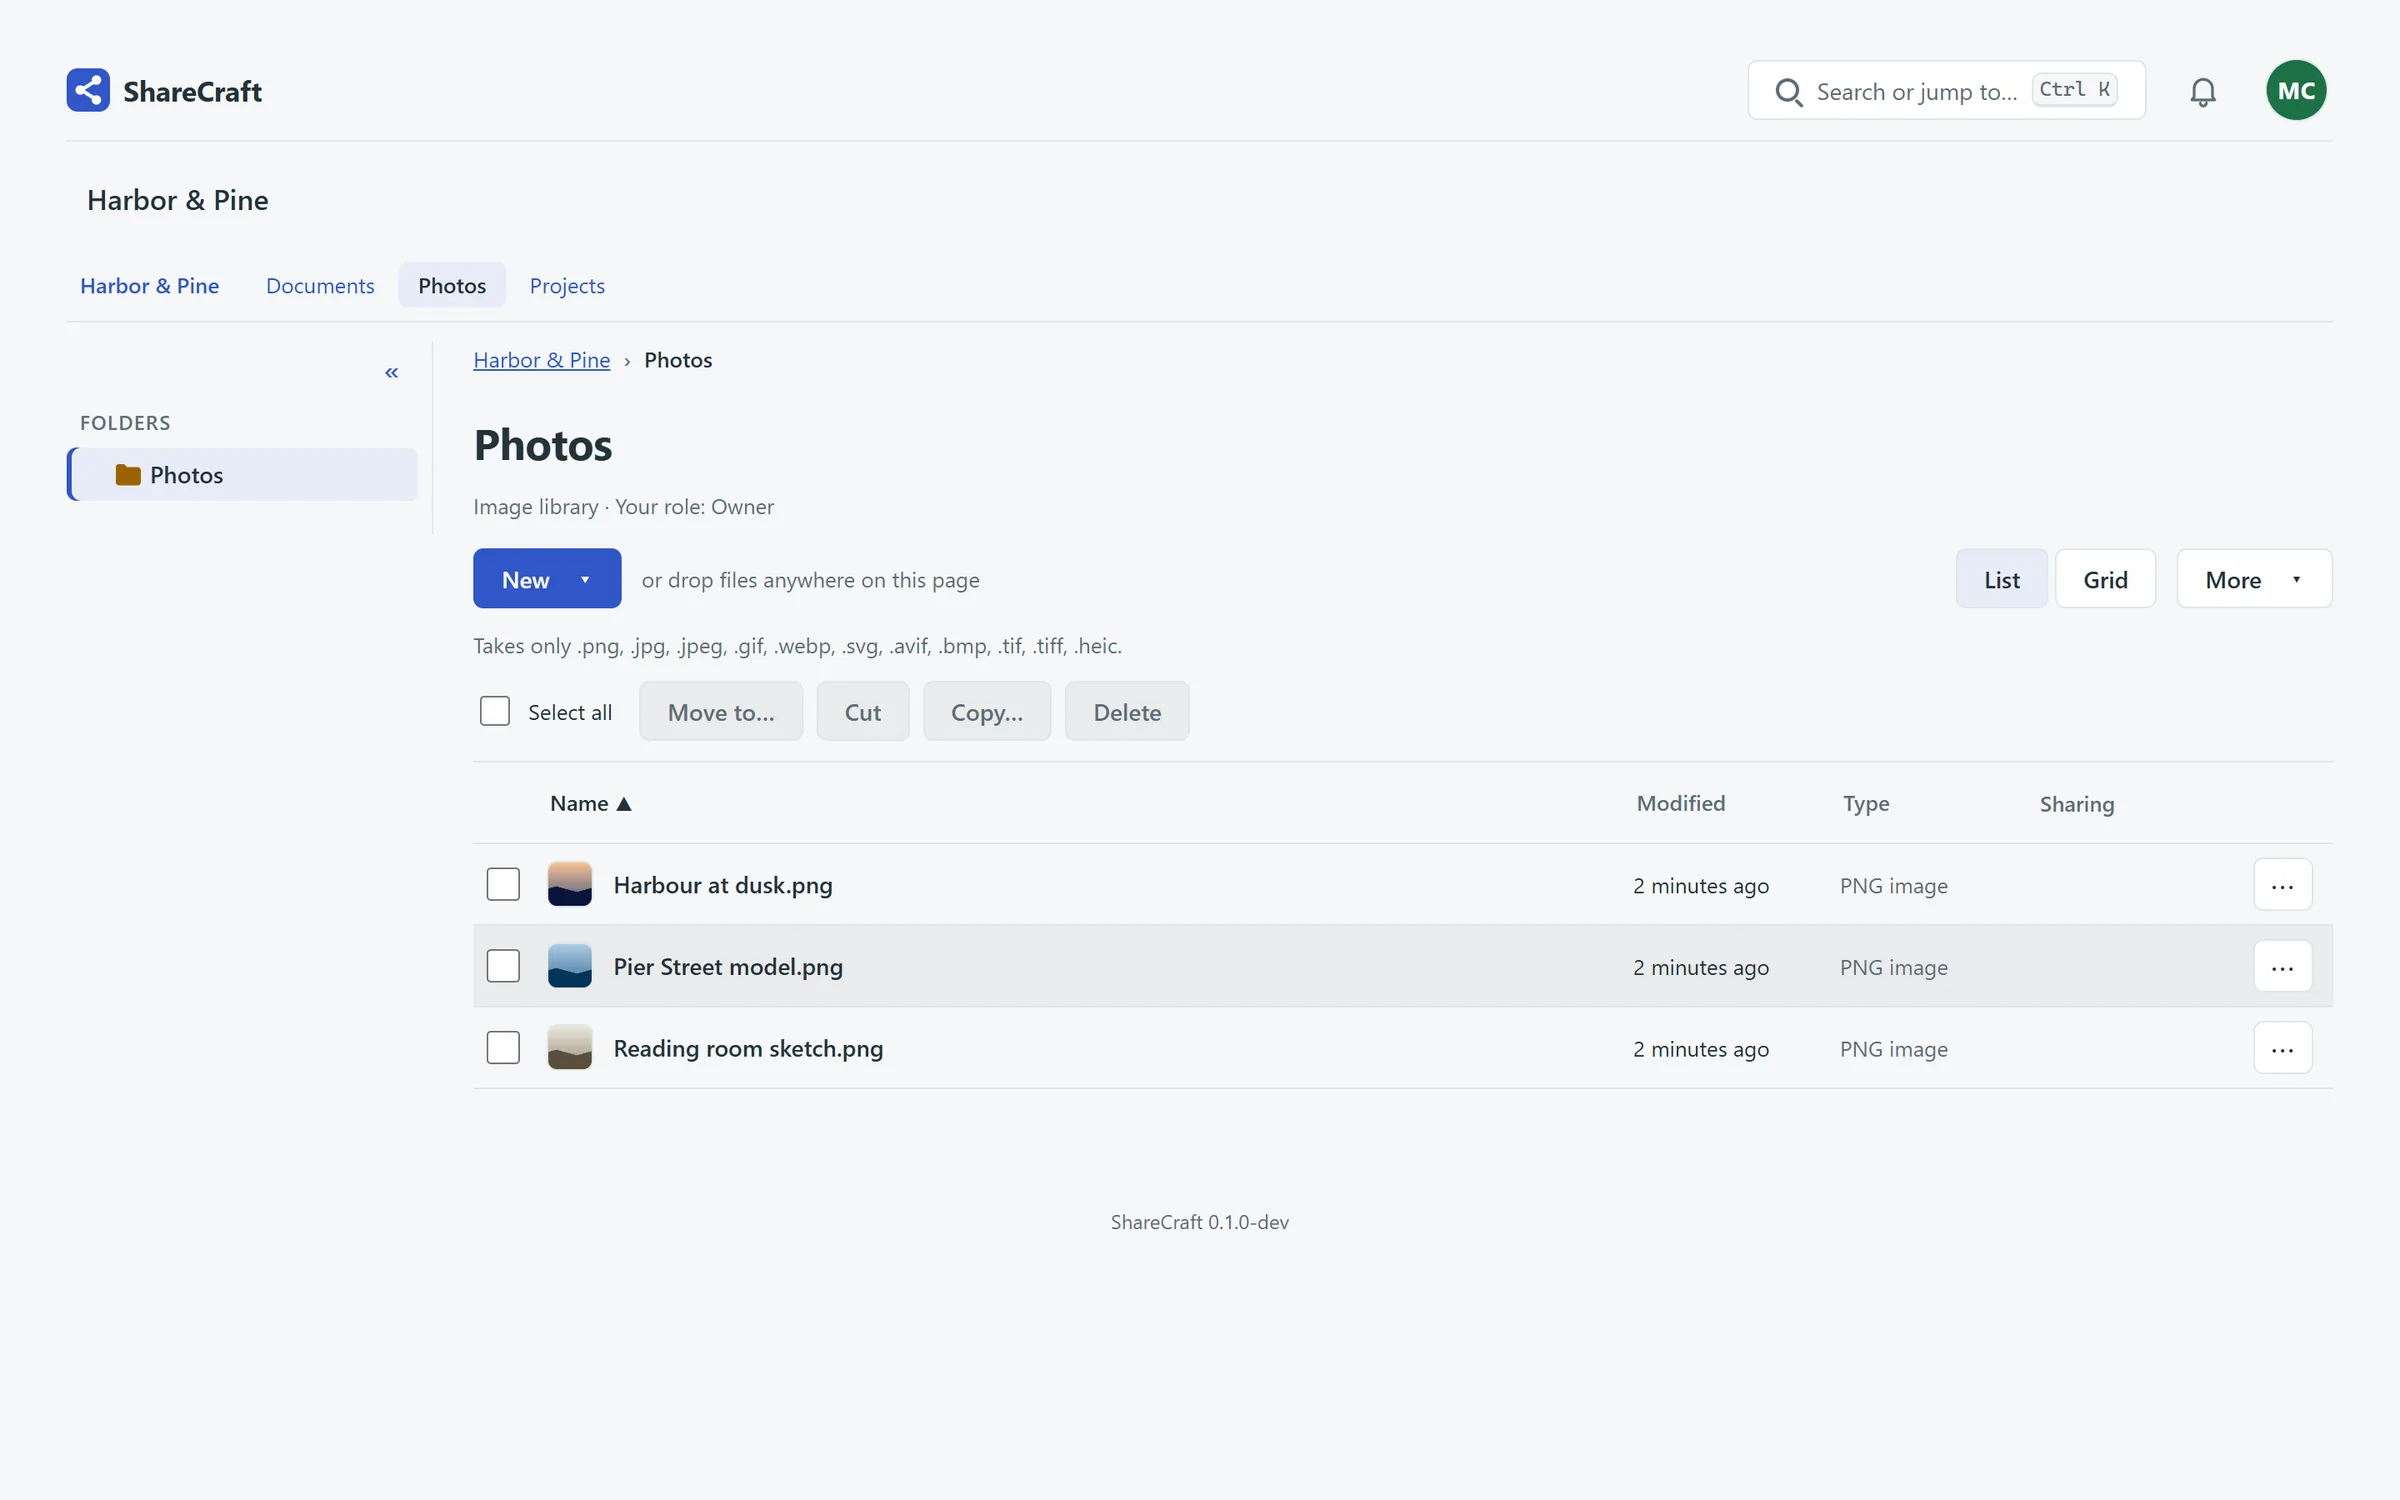
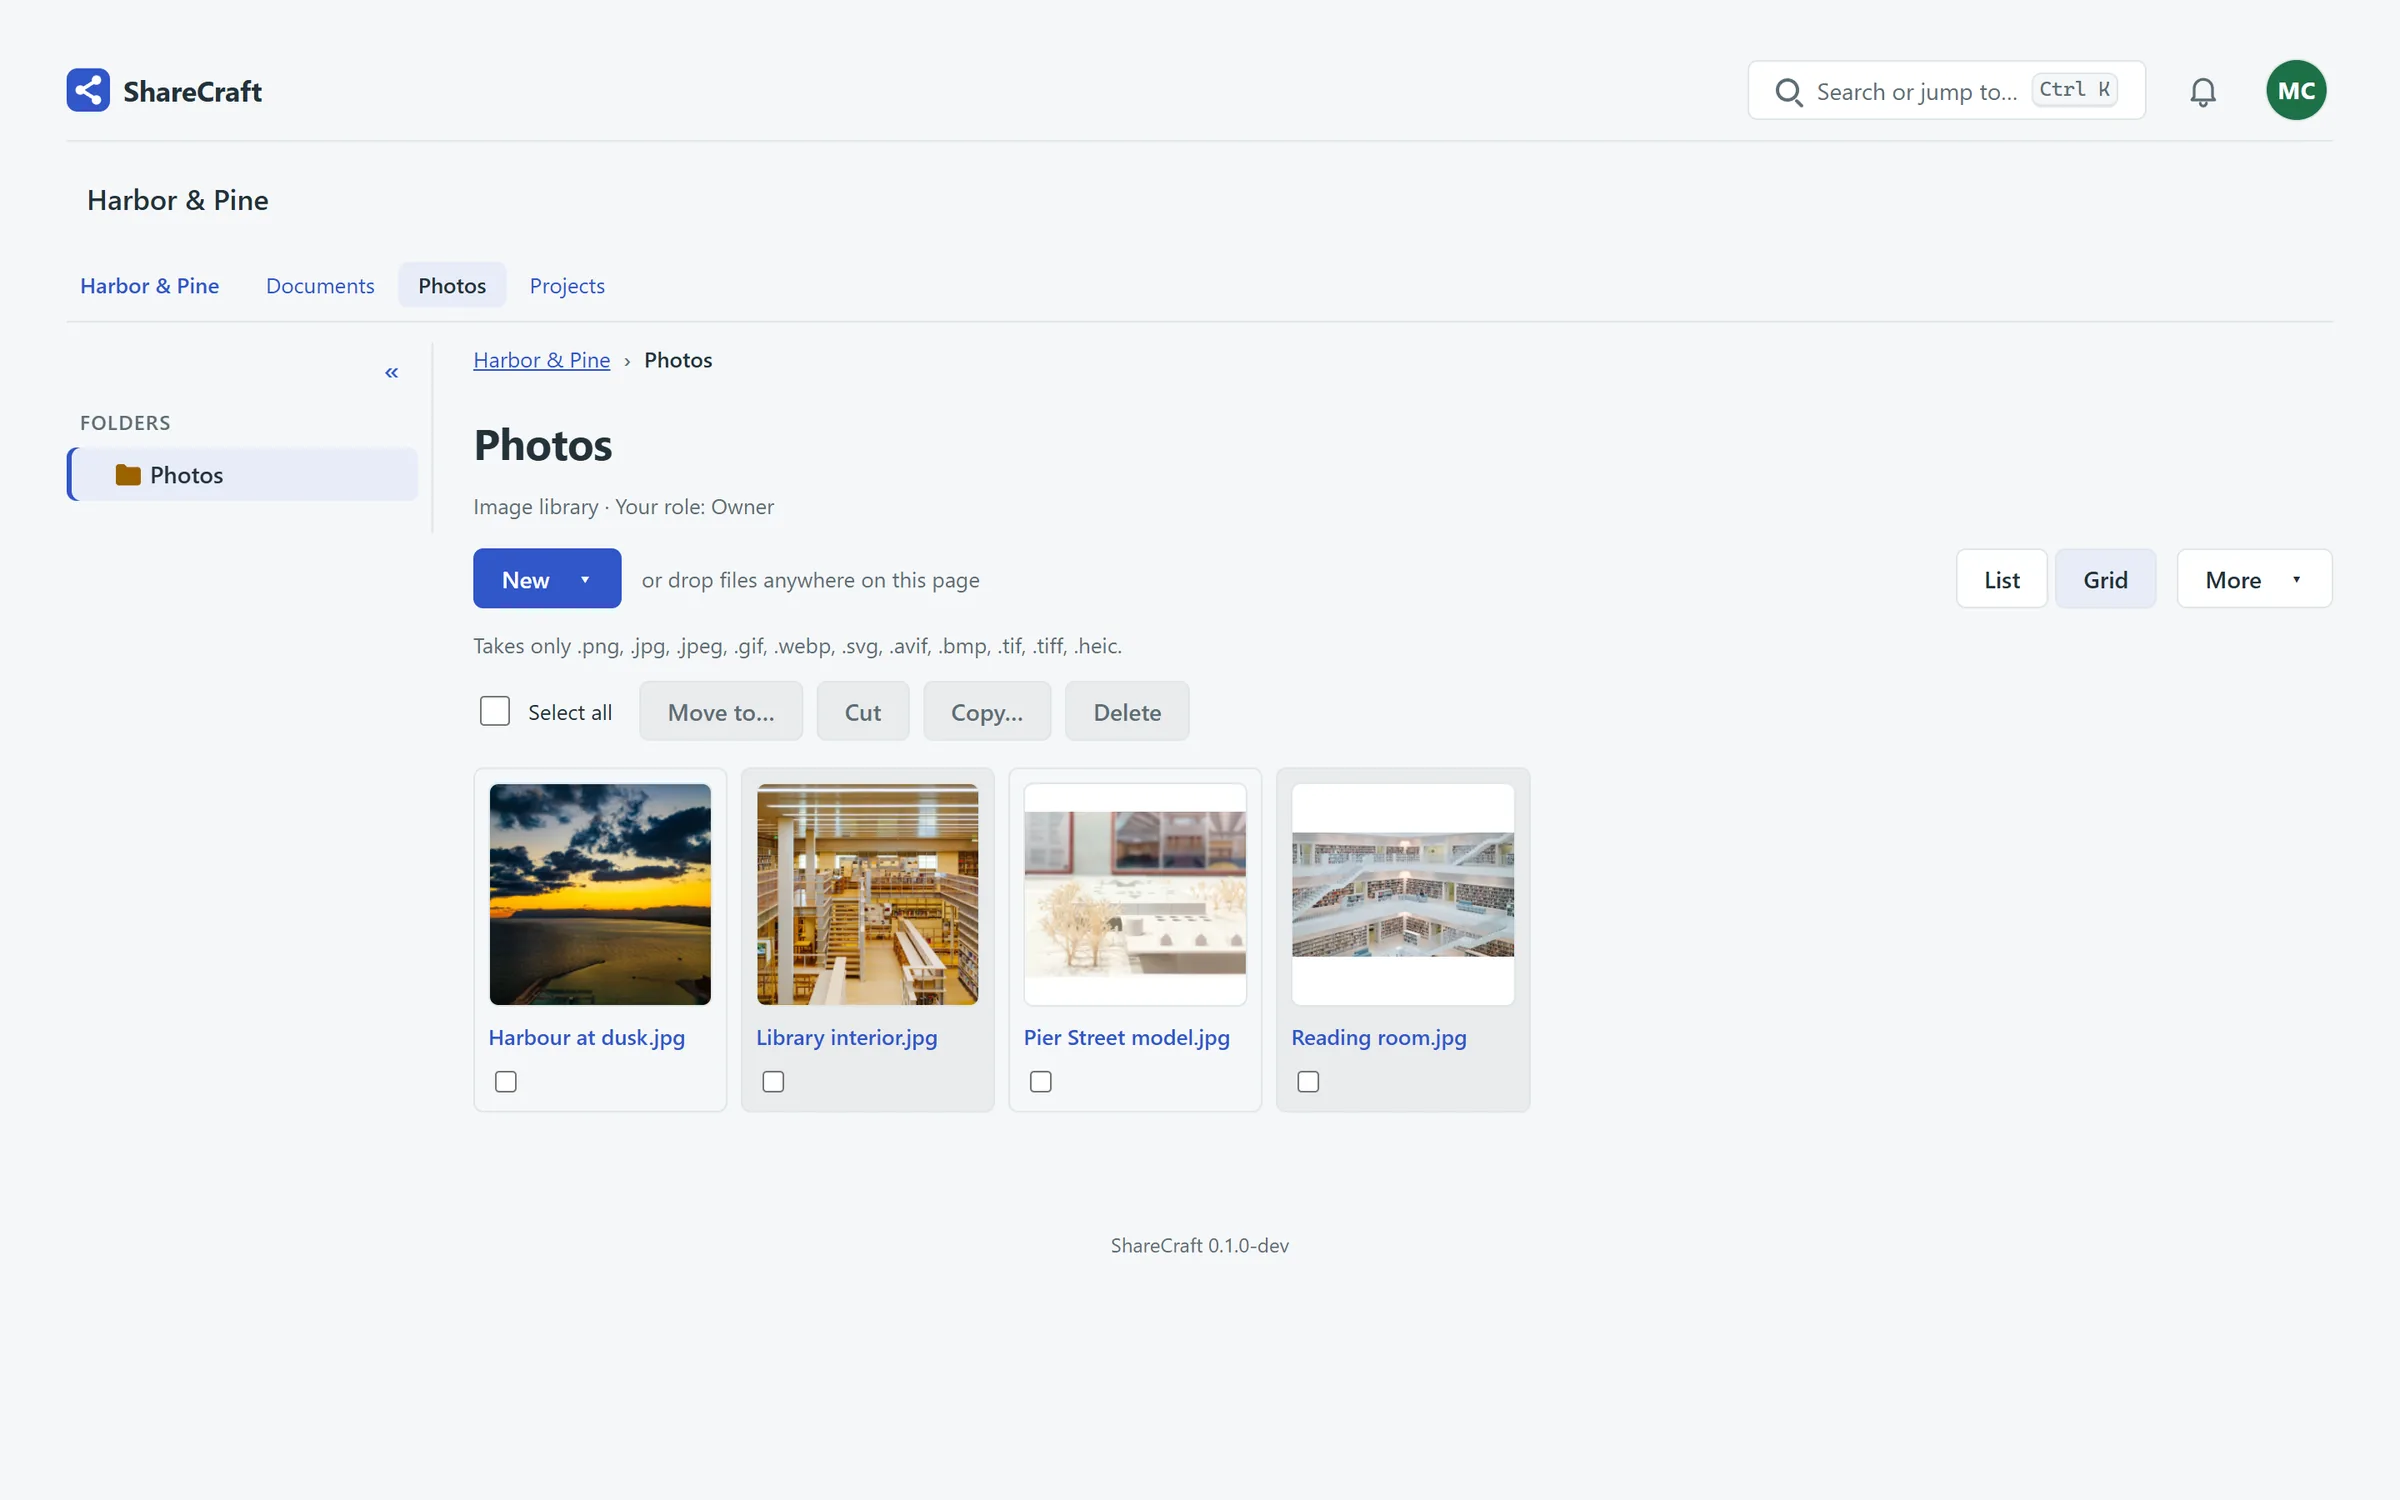
docs: real photos, a click-to-enlarge viewer, and the why behind ShareCraft
Swaps the placeholder photos for free Unsplash pictures, opens any
screenshot fitted to the window when clicked, and brings back the
ethos: who ShareCraft is for (families in a crisis, communities,
organisations), the three-step path and the long-term direction.

diff --git a/docs/index.html b/docs/index.html
@@ -21,9 +21,9 @@
   <meta name="twitter:description" content="Open-source team sites, document libraries and sharing, written in Rust. Spreadsheets, documents, PDFs and 3D designs open in the browser. Early development build.">
   <meta name="twitter:image" content="https://share.thinecraft.io/social-card.png">
   <meta name="twitter:image:alt" content="ShareCraft: A SharePoint alternative shaped around ownership. Sites, knowledge, and collaboration.">
-  <link rel="stylesheet" href="/styles.css?v=2">
+  <link rel="stylesheet" href="/styles.css?v=3">
   <link rel="icon" href="/favicon.svg" type="image/svg+xml">
-  <script src="/site.js?v=2" defer></script>
+  <script src="/site.js?v=3" defer></script>
 </head>
 <body style="--accent:#69e6c5">
   <a class="skip-link" href="#main">Skip to content</a>
@@ -46,6 +46,55 @@
       <figure class="shot shot-hero">
         <img src="/screenshots/site.webp" width="2400" height="1500" alt="A ShareCraft team site called Harbor &amp; Pine, with its libraries, recently changed files, and site owners.">
       </figure>
+    </section>
+
+    <section class="thesis-section section-shell" aria-labelledby="thesis-title">
+      <div>
+        <p class="section-kicker">Why ShareCraft</p>
+        <h2 id="thesis-title">Built to remain understandable—and yours.</h2>
+      </div>
+      <p>Shared sites, libraries and real collaboration usually come with a corporate licence and someone else's servers. ShareCraft is meant to be the shared-content foundation of ThineCraft: a place where knowledge is published, governed and reused without being trapped, and where anyone who needs those tools can have them.</p>
+    </section>
+
+    <section class="capabilities section-shell" aria-labelledby="who-title">
+      <div class="section-heading">
+        <div>
+          <p class="section-kicker">Not only for companies</p>
+          <h2 id="who-title">For anyone who has to come together.</h2>
+        </div>
+      </div>
+      <div class="feature-grid">
+        <article class="feature-card">
+          <span class="feature-index">01</span>
+          <p class="feature-label">Families</p>
+          <h3>When a crisis arrives</h3>
+          <p>An illness, a death, a house to clear, a parent who needs care. Suddenly a family spread across towns has to share documents, decisions and news, often with people they rarely speak to. They deserve the same tools a company has, kept private to the family.</p>
+        </article>
+        <article class="feature-card">
+          <span class="feature-index">02</span>
+          <p class="feature-label">Communities</p>
+          <h3>Clubs, charities and groups</h3>
+          <p>Volunteers come and go, but the records have to stay. A site with clear permissions means the next treasurer or organiser finds everything where it should be.</p>
+        </article>
+        <article class="feature-card">
+          <span class="feature-index">03</span>
+          <p class="feature-label">Organisations</p>
+          <h3>Teams that want to own their work</h3>
+          <p>Intranets, project sites and document libraries on servers you run, with history you can read and no licence that decides when you have to leave.</p>
+        </article>
+      </div>
+    </section>
+
+    <section class="sequence-section section-shell" aria-labelledby="sequence-title">
+      <div>
+        <p class="section-kicker">The shape of the work</p>
+        <h2 id="sequence-title">A simple path through a complex system.</h2>
+      </div>
+      <ol>
+        <li><span>01</span><strong>Publish a governed space</strong></li>
+        <li><span>02</span><strong>Collaborate in context</strong></li>
+        <li><span>03</span><strong>Keep knowledge portable</strong></li>
+      </ol>
     </section>
 
     <section class="tour section-shell" aria-labelledby="tour-title">
@@ -94,7 +143,7 @@
         <div class="tour-copy">
           <span class="feature-index">03</span>
           <h3>Photo libraries</h3>
-          <p>An image library shows pictures as a grid instead of a list, for project photos, renders and sketches.</p>
+          <p>An image library can show pictures as a grid of thumbnails, for project photos, models and renders.</p>
         </div>
         <figure class="shot">
           <img src="/screenshots/photos.webp" width="2400" height="1500" loading="lazy" alt="The Photos library showing image files as a grid of thumbnails.">
@@ -193,6 +242,41 @@
             <li>Guests and notifications</li>
           </ul>
         </div>
+      </div>
+    </section>
+
+    <section class="capabilities section-shell" aria-labelledby="direction-title">
+      <div class="section-heading">
+        <div>
+          <p class="section-kicker">Where it is going</p>
+          <h2 id="direction-title">What ShareCraft is meant to make possible.</h2>
+        </div>
+      </div>
+      <div class="feature-grid">
+        <article class="feature-card">
+          <span class="feature-index">01</span>
+          <p class="feature-label">Direction</p>
+          <h3>Sites and structured knowledge</h3>
+          <p>Team sites, communication sites and intranets, with pages, news, lists, navigation and reusable content.</p>
+        </article>
+        <article class="feature-card">
+          <span class="feature-index">02</span>
+          <p class="feature-label">Direction</p>
+          <h3>Document libraries and governance</h3>
+          <p>Metadata, versions, search, permissions, sharing controls, audit, retention and governance in one place.</p>
+        </article>
+        <article class="feature-card">
+          <span class="feature-index">03</span>
+          <p class="feature-label">Direction</p>
+          <h3>Co-authoring across the craft</h3>
+          <p>Presence and editing together in WordCraft, GridCraft, PdfCraft, SolidCraft, DeckCraft and other ThineCraft applications.</p>
+        </article>
+        <article class="feature-card">
+          <span class="feature-index">04</span>
+          <p class="feature-label">Direction</p>
+          <h3>Workflows, a controlled public edge, and services on top</h3>
+          <p>Workflows that connect content across the ecosystem, public submissions that never expose the private workspace, and services built on the platform, such as ThineMemorial and ThineWedding.</p>
+        </article>
       </div>
     </section>
 

diff --git a/docs/styles.css b/docs/styles.css
@@ -114,6 +114,13 @@ footer { display: flex; justify-content: space-between; gap: 1rem; padding: 2rem
 .state-card ul { margin: 0; padding: 0; list-style: none; }
 .state-card li { padding: .8rem .9rem; border-radius: .5rem; color: #d8d4ca; line-height: 1.5; }
 .state-card li:nth-child(odd) { background: #ffffff08; }
+.shot img { cursor: zoom-in; }
+.shot img:focus-visible { outline: 3px solid var(--accent); outline-offset: 4px; }
+.viewer { width: 100vw; max-width: none; height: 100vh; height: 100dvh; max-height: none; margin: 0; padding: clamp(.5rem, 2vw, 1.5rem); border: 0; background: transparent; cursor: zoom-out; }
+.viewer::backdrop { background: #05080bfa; }
+.viewer[open] { display: flex; align-items: center; justify-content: center; }
+.viewer img { display: block; max-width: 100%; max-height: 100%; width: auto; height: auto; object-fit: contain; border-radius: .6rem; box-shadow: 0 2rem 6rem #000a; }
+.viewer-close { position: fixed; top: .75rem; right: .75rem; z-index: 1; width: 2.75rem; height: 2.75rem; border: 1px solid #ffffff33; border-radius: 50%; background: #0a1016e0; color: #f5f1e7; font: inherit; font-size: 1.6rem; line-height: 1; cursor: pointer; }
 @media (max-width: 62rem) {
   .hero-shots, .tour-row, .tour-row-flip, .tour-row-phone, .state-grid { grid-template-columns: 1fr; }
   .tour-row-flip > .tour-copy { order: 0; }

diff --git a/docs/site.js b/docs/site.js
@@ -9,3 +9,29 @@ if (toggle && navigation) {
     navigation.dataset.open = String(!expanded);
   });
 }
+
+// Click a screenshot to see the whole picture, fitted to the window.
+const shots = document.querySelectorAll('.shot img');
+if (shots.length && typeof HTMLDialogElement === 'function') {
+  const viewer = document.createElement('dialog');
+  viewer.className = 'viewer';
+  viewer.setAttribute('aria-label', 'Screenshot, full size');
+  viewer.innerHTML = '<button class="viewer-close" type="button" aria-label="Close">×</button><img alt="">';
+  document.body.append(viewer);
+  const big = viewer.querySelector('img');
+  const open = (img) => {
+    big.src = img.currentSrc || img.src;
+    big.alt = img.alt;
+    viewer.showModal();
+  };
+  viewer.addEventListener('click', () => viewer.close());
+  shots.forEach((img) => {
+    img.tabIndex = 0;
+    img.setAttribute('role', 'button');
+    img.setAttribute('aria-label', 'View full size: ' + img.alt);
+    img.addEventListener('click', () => open(img));
+    img.addEventListener('keydown', (e) => {
+      if (e.key === 'Enter' || e.key === ' ') { e.preventDefault(); open(img); }
+    });
+  });
+}
